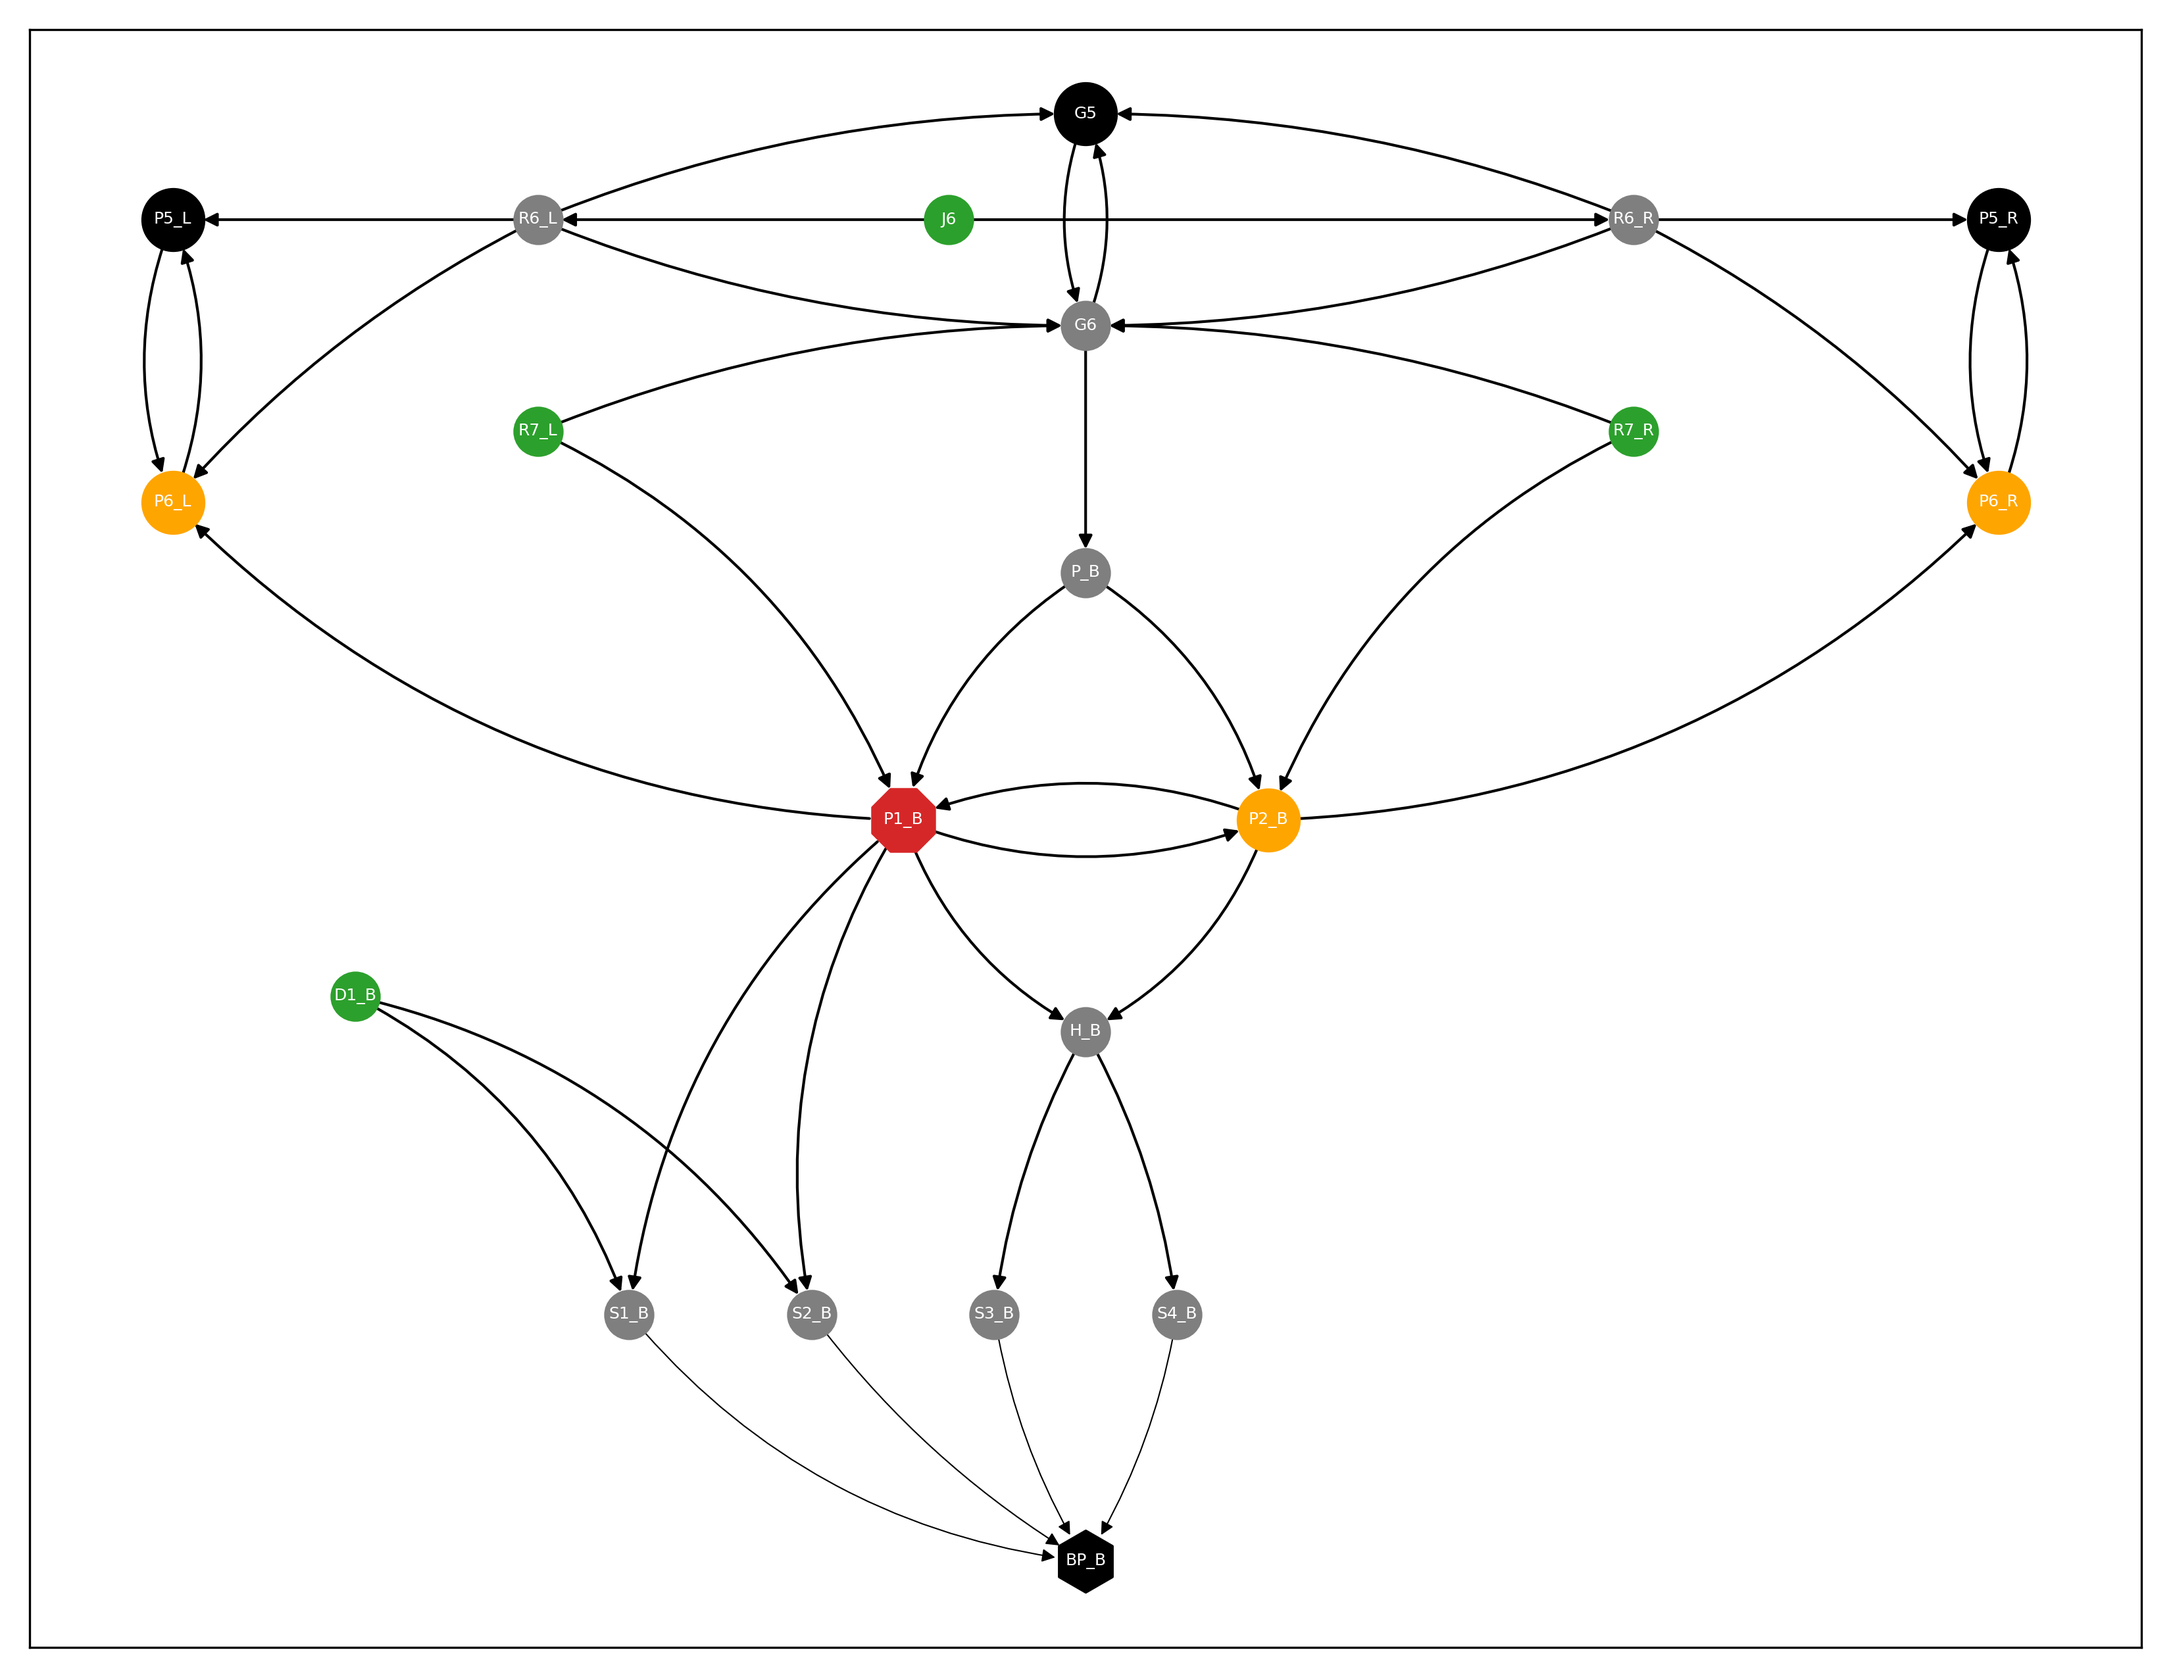
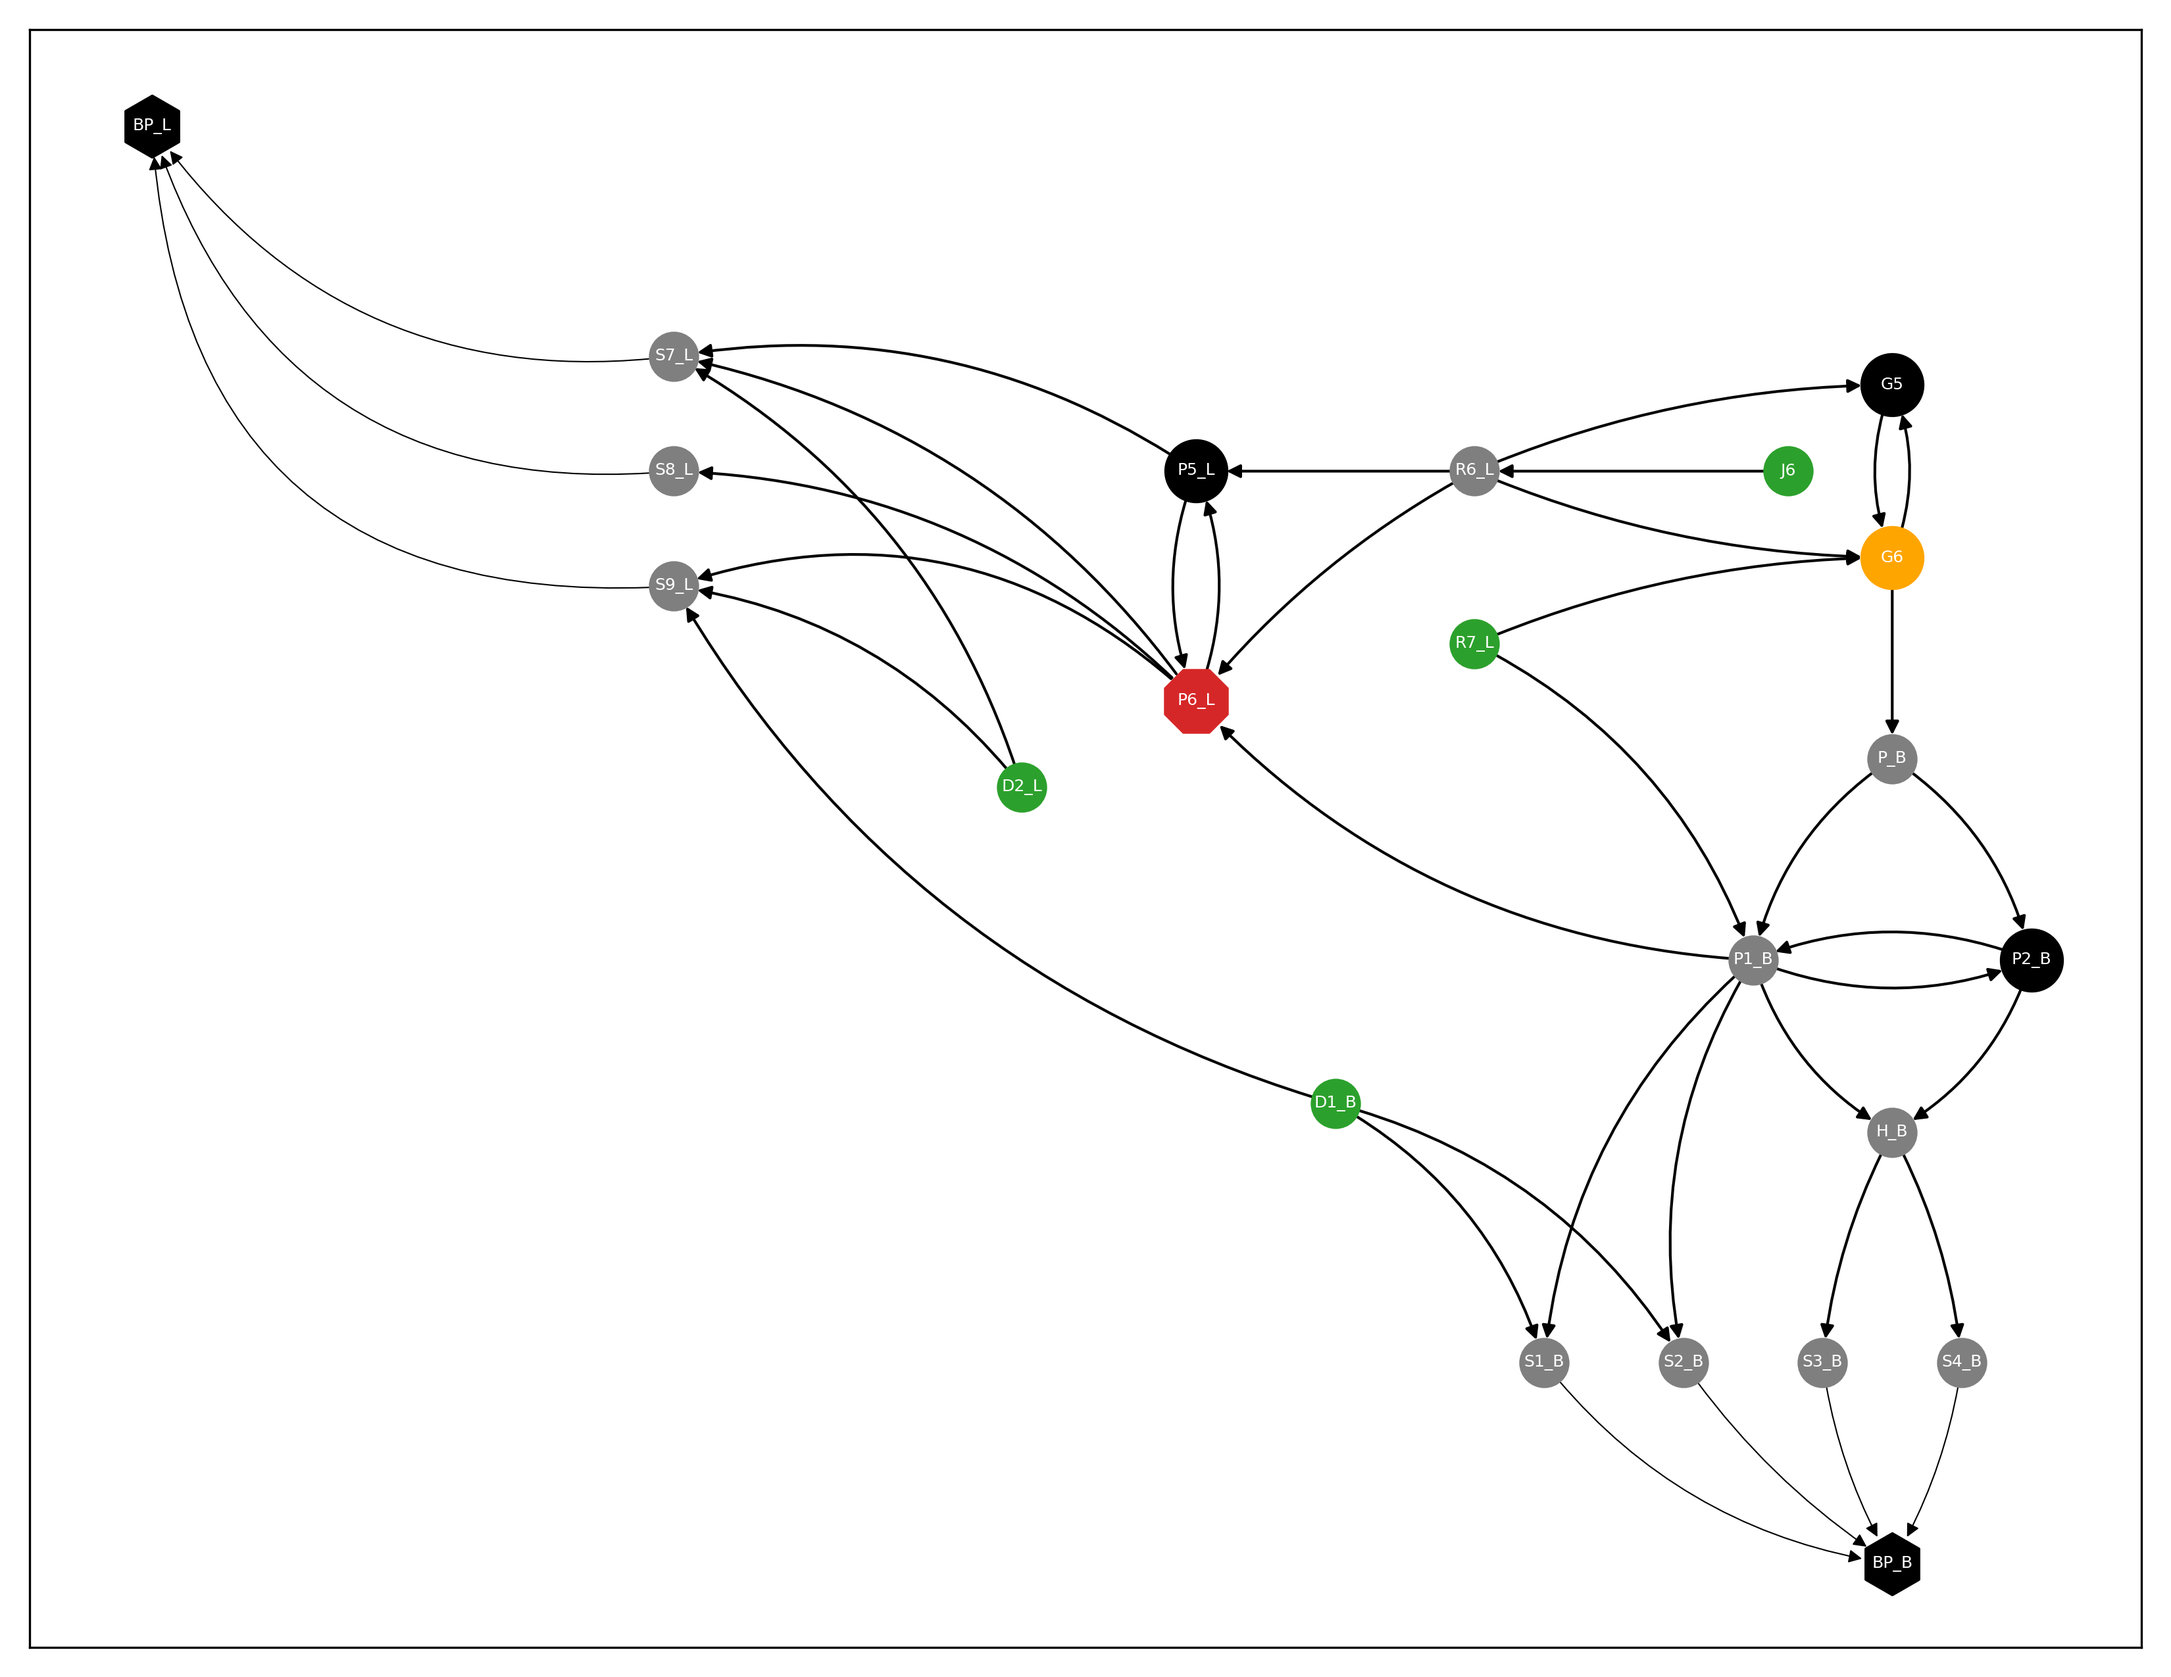
subgraph generation update:

diff --git a/algorithms.py b/algorithms.py
@@ -1,3 +1,4 @@
+from os import remove
 import networkx as nx
 
 
@@ -9,8 +10,15 @@ def _get_e_in(G, n):
     return list(G.in_edges(n))
 
 
-def check_if_fixed_two_sides(G, n):
-    print("\nCheck if edge is fixed on two sides")
+def check_if_fixed_exists(G,n1,n2):
+    if G.has_edge(n1,n2) and G.has_edge(n2,n1):
+        return True
+    else:
+        return False
+
+
+def count_fixed_sides(G, n):
+    print("\nCheck on how many sides node is fixed")
 
     e_list = _get_e_out(G, n)
 
@@ -24,57 +32,40 @@ def check_if_fixed_two_sides(G, n):
     return fixed_e_count
 
 
-def check_if_normal_node(G, n):
-    print("Check what kind of node")
+def add_node_to_queue(G, n, two_side_fixed, one_side_fixed, remove_node):
+    print("Check if the node should be added to queue")
+
+    add = False
 
     if len(G.in_edges(n)) == 0:
         print("--start node")
         G.nodes[n]["color"] = "tab:green"
         G.nodes[n]["size"] = 300
-        check = False
     elif len(G.out_edges(n)) == 0:
         print("--end node")
         G.nodes[n]["color"] = "black"
-        check = False
-    elif check_if_fixed_two_sides(G, n) == 2:
+    elif count_fixed_sides(G, n) == 2:
         print("--FIXED NODE, fixed on TWO sides")
         G.nodes[n]["color"] = "black"
         G.nodes[n]["size"] = 500
-        check = False
-    elif check_if_fixed_two_sides(G, n) == 1 and len(_get_e_out(G, n)) >= 4:
+        two_side_fixed.append(n)
+    elif count_fixed_sides(G, n) == 1:
         print("--FIXED NODE, fixed on ONE sides")
-        G.nodes[n]["color"] = "orange"
-        G.nodes[n]["size"] = 500
-        check = False
+
+        if G.has_edge(n,remove_node) and not check_if_fixed_exists(G,n,remove_node):
+            add = True # make a normal node if it's resting on to remove
+            G.nodes[n]["color"] = "tab:grey"
+            G.nodes[n]["size"] = 300
+        else:
+            G.nodes[n]["color"] = "orange"
+            G.nodes[n]["size"] = 500
+            one_side_fixed.append(n)
     else:
         print("--normal node")
         G.nodes[n]["color"] = "tab:grey"
         G.nodes[n]["size"] = 300
-        check = True
-
-    return check
-
-
-# def check_if_fixed_edge(G, e_list):
-#     print("\nCheck if edge is fixed")
-
-#     e_normal = []
-#     e_fixed = []
-
-#     for e in e_list:
-#         if G.has_edge(e[1], e[0]):  # check if edge in opposite direction
-#             # print("--This is fixed edge",e)
-#             e_fixed.append(e)
-#             e_normal.append(e)
-#         else:
-#             # print("--This is normal edge",e)
-#             e_normal.append(e)
-
-
-#     if not e_normal:
-#         print("--NO NORMAL EDGES")
-
-#     return e_normal, e_fixed
+        add = True
+    return add
 
 
 def find_adjacent_nodes(G, n, n_queue, n_saved):
@@ -91,12 +82,71 @@ def find_adjacent_nodes(G, n, n_queue, n_saved):
     return n_queue, n_saved
 
 
-def phase_1(G, start_node):
+def remove_two_side_out(K,nodes,remove_node):
 
-    print("\nSTART FOR MEMBER: {}".format(start_node))
+    """remove redundant out edges from fixed nodes to other nodes in the graph,
+    unless they connect directly to the element to be removed
+    """
+
+    print("\nREMOVING SINGLE OUT EDGES FROM FIXED NODES {} in SUBGRAPH K".format(nodes))
+
+    K_copy = K.copy()
+
+    for n in nodes:
+        e_K = _get_e_out(K,n)
+
+        for e in e_K:
+
+            if not check_if_fixed_exists(K,e[1],e[0]) and remove_node not in e:
+                print("single edge {}".format(e))
+                K_copy.remove_edge(e[0],e[1])
+        
+    return K_copy
+
+
+def check_connected(G,K,remove_node,nodes):
+    """
+    check if a member with a single fixed has at least two other support connections after the removal of the member.
+    If it is fixed and not being cut then it just needs 1 additional connection.
+    """
+    print("\nCHECKING SUBGRAPH {} in SUBGRAPH K".format(nodes))
+
+    for n in nodes:
+        print("\n--check node {}".format(n))
+        e_G = _get_e_out(G,n) # starting
+        e_K = _get_e_out(K,n) # how many members removed
+
+        num_supports = len(e_G) - len(e_K)
+
+        # if fixed edge is not being cut, add back
+        for e in e_K:
+            if check_if_fixed_exists(G,e[0],e[1]):
+                if remove_node in e:
+                    pass
+                else:
+                    num_supports += 1
+
+        if num_supports < 2:
+            print ("--{} DANGER".format(n))
+            K.nodes[n]["color"] = "orange"
+            K.nodes[n]["size"] = 500
+        else:
+            print ("--{}, w/ {} SUPPORTS".format(n,num_supports))
+            K.nodes[n]["color"] = "black"
+            K.nodes[n]["size"] = 500
+
+    return K
+
+
+def phase_1(G, remove_node):
+
+    print("\nSTART FOR MEMBER: {}".format(remove_node))
 
     nodes_saved = []
-    nodes_queue = [start_node]
+    nodes_queue = [remove_node]
+
+    two_side_fixed = []
+    one_side_fixed = []
 
     n = nodes_queue.pop(0)
     print("\n\nCHECKING NODE {}".format(n))
@@ -113,7 +163,7 @@ def phase_1(G, start_node):
         n = nodes_queue.pop(0)
         print("\n\nCHECKING NODE {}".format(n))
 
-        if check_if_normal_node(G, n):
+        if add_node_to_queue(G, n, two_side_fixed, one_side_fixed,remove_node):
             nodes_queue, nodes_saved = find_adjacent_nodes(G, n, nodes_queue, nodes_saved)
 
         nodes_saved.append(n)
@@ -124,6 +174,10 @@ def phase_1(G, start_node):
 
     K = G.subgraph(nodes_saved)
     nx.set_edge_attributes(K, "black", "color")
+
+
+    # K = remove_two_side_out(K,two_side_fixed, remove_node)
+    K = check_connected(G,K, remove_node, one_side_fixed)
 
     return K
 

diff --git a/main.py b/main.py
@@ -71,7 +71,12 @@ def draw_graph(G, pos_fixed, name):
             n_shape = "o"
 
         nx.draw_networkx_nodes(
-            G, pos, node_size=s, nodelist=[n[0]], node_color=n[1]["color"], node_shape=n_shape
+            G,
+            pos=pos,
+            node_size=s,
+            nodelist=[n[0]],
+            node_color=n[1]["color"],
+            node_shape=n_shape
         )
 
         n_size.append(s)
@@ -146,7 +151,7 @@ if __name__ == "__main__":
 
     # draw_graph(G, get_node_pos(G), "full_structure.png")
 
-    remove_member = "P1_B"
+    remove_member = "P6_L"
     K = phase_1(G, remove_member)
     # draw_graph(K, get_node_pos(K), "partial_{}.png".format(remove_member))
     draw_graph(K, get_node_pos(K), "partial_.png")
